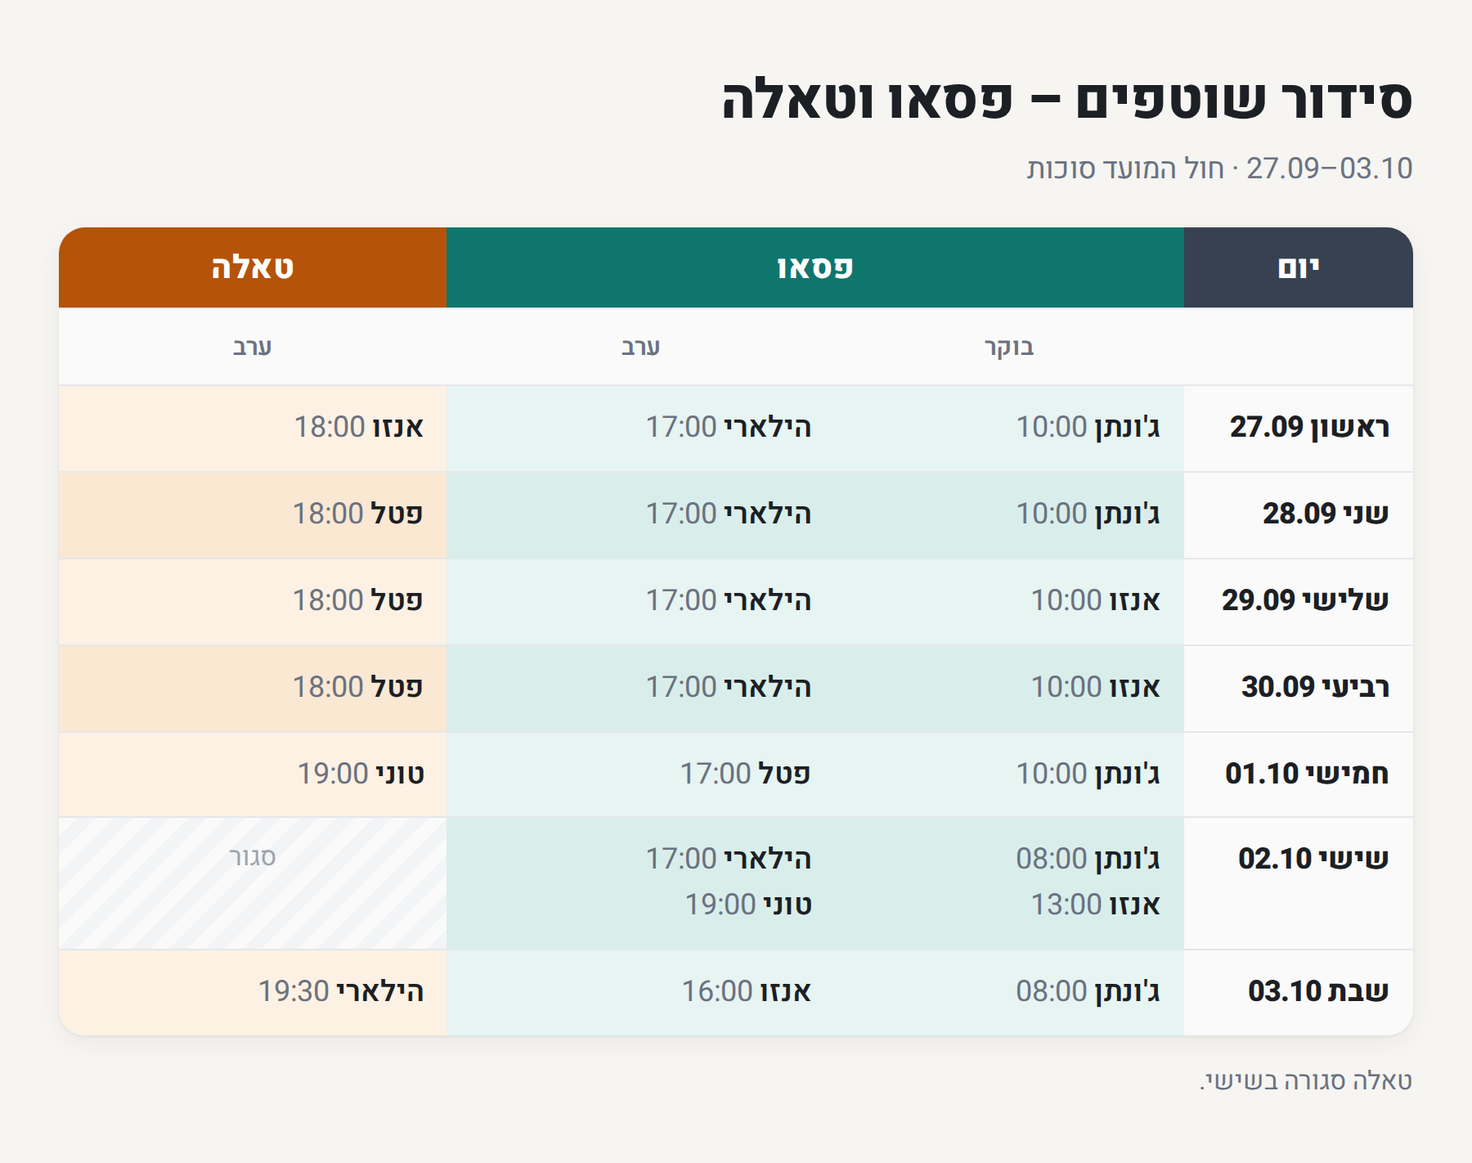
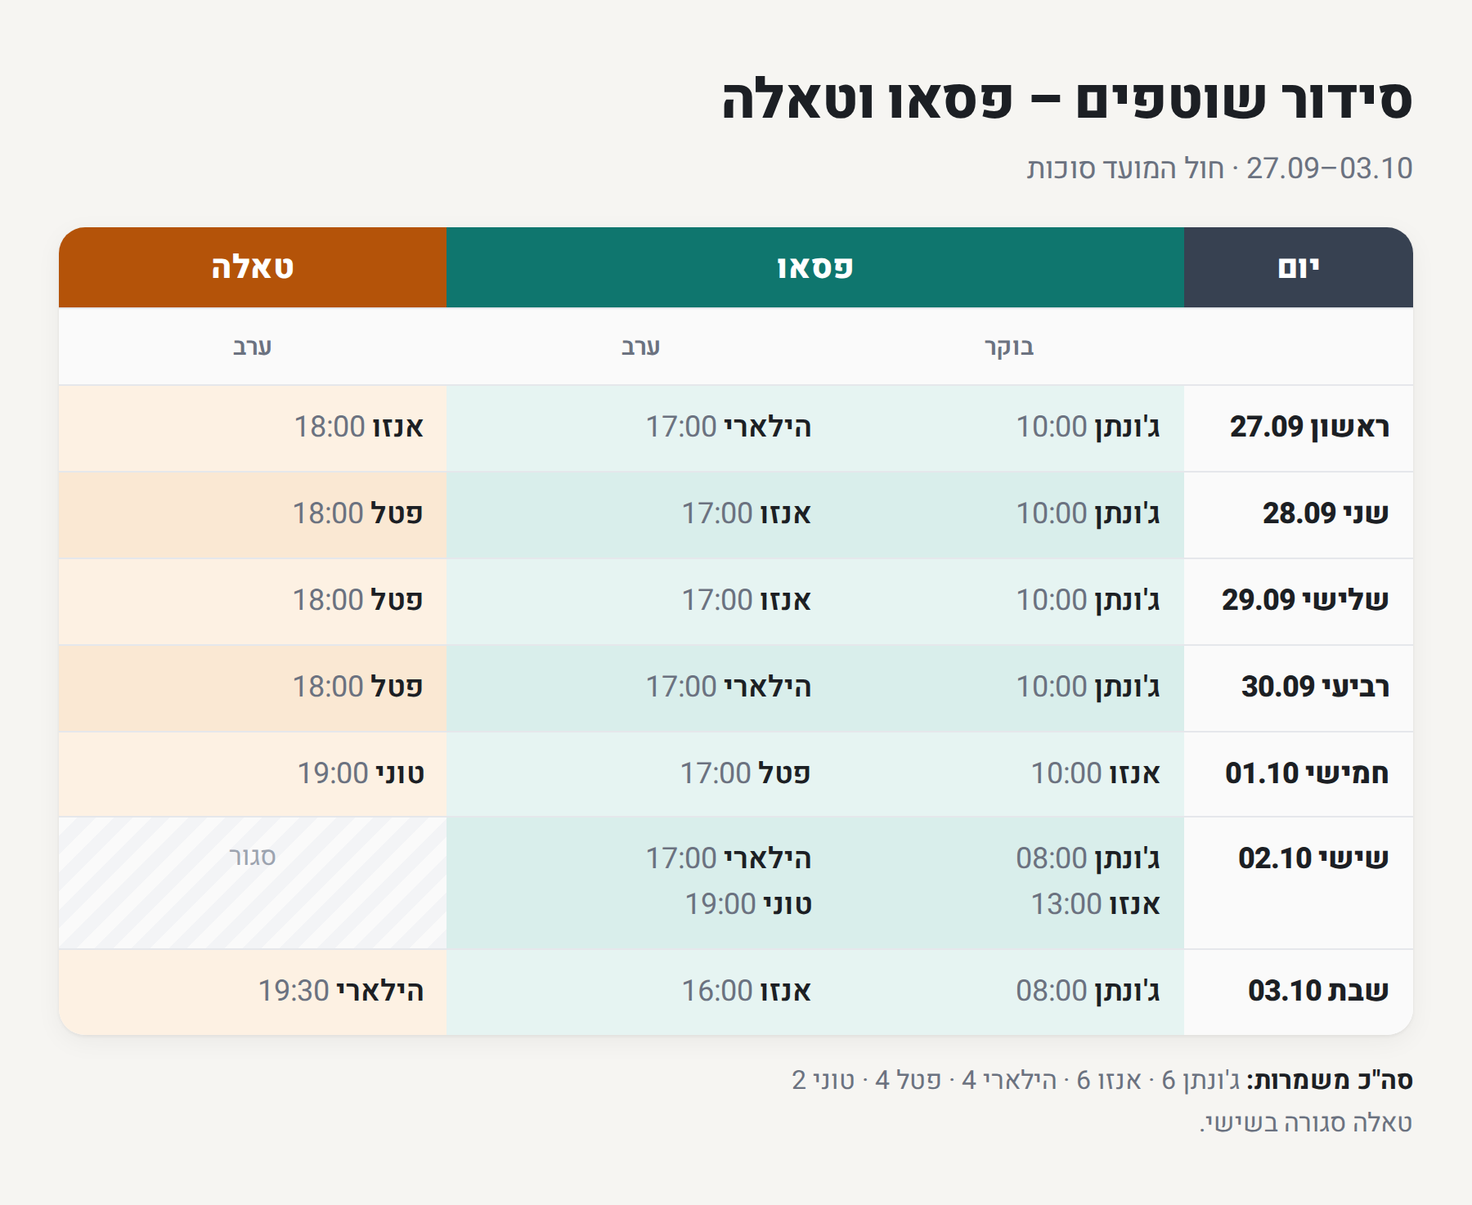
shift: חלוקה ג'ונתן 6 / אנזו 6 / הילארי 4 / פטל 4 + כלל חלוקה ב-skill
Claude-Session: https://claude.ai/code/session_01PaCDQzCdGZVMUVUojbSF3f

diff --git a/docs/shift/week-2026-09-27-dish-balance-6644.ts b/docs/shift/week-2026-09-27-dish-balance-6644.ts
@@ -1,0 +1,174 @@
+import "jsr:@supabase/functions-js/edge-runtime.d.ts";
+import { createClient } from "jsr:@supabase/supabase-js@2";
+
+// שוטפים 27/09–03/10 — חזרה לסידור שלפני התוכנית של גיל (ירין 26/09 בערב):
+//   ג'רמי לא מוכן לעבור לערבים (רוצה 11+ שעות ביום) → ג'רמי שוב בבקרי אומינו, הסרילנקי נדחה.
+//   פטל חוזר לערבי אומינו א'–ה'; טאלה א'–ד' כמו קודם (אנזו/ג'ונתן). פטל חופש ו'+ש' (ביקש) → במוצ"ש הילארי בטאלה.
+//   גיל 26/09 בלילה: מחר (א' 27/09) ג'רמי בערב באומינו, פטל מבוטל באותו יום. בוקר אומינו א' — הסרילנקי (ירין: "מחר הסרילנקי עובד"), עדיין בלי משתמש בשיפט.
+//   ירין: ג'ונתן עובד בה' — בוקר פסאו 10:00 במקום אנזו (אנזו נשאר ה' ערב 17:00, בלי כפולה).
+//   ירין: טאלה ב' 18:00 — אנזו במקום ג'ונתן (מבטל את הכפולה של ג'ונתן).
+//   ירין: פטל לא נדרש באומינו (לגיל יש ג'רמי + סרילנקי) → פטל טאלה ב'–ד' 18:00 + פסאו ה' 17:00.
+//   ערבי אומינו ב'–ה' → תא ריק "Umino – גיל משבץ". ג'ונתן חופש ג'+ד', אנזו חופש ב'+ה'.
+//   ירין: ג'ונתן+אנזו ≥6 משמרות, הילארי+פטל 2–4. חלוקה: ג'ונתן 6 (חופש ה'), אנזו 6 (חופש ד'), הילארי 4, פטל 4. בלי כפולות.
+// Reconcile מול ROWS. לא מפרסם.
+const sb = createClient(Deno.env.get("SUPABASE_URL")!, Deno.env.get("SUPABASE_SERVICE_ROLE_KEY")!);
+const BASE = "https://app.shiftorganizer.com";
+const UA = "Mozilla/5.0 (Macintosh; Intel Mac OS X 10_15_7) AppleWebKit/537.36 (KHTML, like Gecko) Chrome/126 Safari/537.36";
+
+const WEEK = "2026-09-27";
+const P_APP = 4283, P_ROTA = 884123, DISH = 34937, B = 16656, E = 21796;
+const W = { JONATHAN: 765292, ENZO: 765295, HILLARY: 732289, PATEL: 808241, TONY: 811255, JEREMY: 829782 };
+const P = "Paseo", U = "Umino", T = "Tala", SL = "Umino – סרילנקי", U_GIL = "Umino – גיל משבץ";
+
+type Row = [number, number, number | null, string, string];
+const ROWS: Row[] = [
+  [0, B, W.JONATHAN, "10:00", P], [0, B, null, "11:00", SL],
+  [0, E, W.HILLARY, "17:00", P], [0, E, W.ENZO, "18:00", T], [0, E, W.JEREMY, "18:00", U],
+
+  [1, B, W.JONATHAN, "10:00", P], [1, B, W.JEREMY, "10:00", U],
+  [1, E, W.ENZO, "17:00", P], [1, E, W.PATEL, "18:00", T], [1, E, null, "18:00", U_GIL],
+
+  [2, B, W.JONATHAN, "10:00", P], [2, B, W.JEREMY, "10:00", U],
+  [2, E, W.ENZO, "17:00", P], [2, E, W.PATEL, "18:00", T], [2, E, null, "18:00", U_GIL],
+
+  [3, B, W.JONATHAN, "10:00", P], [3, B, W.JEREMY, "10:00", U],
+  [3, E, W.HILLARY, "17:00", P], [3, E, W.PATEL, "18:00", T], [3, E, null, "18:00", U_GIL],
+
+  [4, B, W.ENZO, "10:00", P], [4, B, W.JEREMY, "10:00", U],
+  [4, E, W.PATEL, "17:00", P], [4, E, W.TONY, "19:00", T], [4, E, null, "18:00", U_GIL],
+
+  [5, B, W.JONATHAN, "08:00", P], [5, B, W.JEREMY, "10:00", U], [5, B, W.ENZO, "13:00", P],
+  [5, E, W.HILLARY, "17:00", P], [5, E, W.TONY, "19:00", P],
+
+  [6, B, W.JONATHAN, "08:00", P],
+  [6, E, W.ENZO, "16:00", P], [6, E, W.HILLARY, "19:30", T], [6, E, W.JEREMY, "19:30", U],
+];
+
+async function cfg(k: string): Promise<string> {
+  const { data } = await sb.from("app_config").select("value").eq("key", k).maybeSingle();
+  return data?.value ?? "";
+}
+function eat(res: Response, jar: Record<string, string>) {
+  const raw = (res.headers as any).getSetCookie?.() ?? [];
+  const list: string[] = raw.length ? raw : (res.headers.get("set-cookie") ? [res.headers.get("set-cookie")!] : []);
+  for (const c of list) { const [p] = c.split(";"); const i = p.indexOf("="); if (i > 0) jar[p.slice(0, i).trim()] = p.slice(i + 1).trim(); }
+}
+const jarStr = (j: Record<string, string>) => Object.entries(j).map(([k, v]) => `${k}=${v}`).join("; ");
+function hdrs(jar: Record<string, string>, post = false) {
+  const h: Record<string, string> = { "User-Agent": UA, "Accept": "application/json", "Cookie": jarStr(jar), "Referer": `${BASE}/app/home/` };
+  if (post) { h["Content-Type"] = "application/json"; h["Origin"] = BASE; }
+  if (jar["csrftoken"]) h["X-CSRFToken"] = jar["csrftoken"];
+  return h;
+}
+async function login(jar: Record<string, string>) {
+  const g = await fetch(`${BASE}/app/login/`, { headers: { "User-Agent": UA }, redirect: "manual" }); eat(g, jar);
+  const r = await fetch(`${BASE}/api/auth/login/`, { method: "POST", headers: { ...hdrs(jar, true), "Referer": `${BASE}/app/login/` },
+    body: JSON.stringify({ username: await cfg("SHIFT_USERNAME"), company: await cfg("SHIFT_COMPANY"), password: await cfg("SHIFT_PASSWORD") }), redirect: "manual" });
+  eat(r, jar); return r.ok;
+}
+async function switchApp(jar: Record<string, string>, app: number) {
+  const sw = await fetch(`${BASE}/api/auth/switch-application/`, { method: "POST", headers: hdrs(jar, true), body: JSON.stringify({ application: app }), redirect: "manual" });
+  eat(sw, jar); return sw.ok;
+}
+const rowsOf = (j: any) => Array.isArray(j) ? j : (Array.isArray(j?.results) ? j.results : []);
+function dateOf(day: number) {
+  const d = new Date(WEEK + "T00:00:00Z"); d.setUTCDate(d.getUTCDate() + day);
+  return d.toISOString().slice(0, 10);
+}
+// PATCH עם נעילה אופטימית — ה-API דורש version תואם, אחרת 409.
+async function patchCell(jar: Record<string, string>, app: number, cur: any, fields: Record<string, unknown>) {
+  let ver = Number(cur.version ?? 0), last = "";
+  for (let attempt = 0; attempt < 3; attempt++) {
+    const r = await fetch(`${BASE}/api/cells/${cur.id}/?application=${app}`, { method: "PATCH", headers: hdrs(jar, true),
+      body: JSON.stringify({ ...cur, version: ver, ...fields }) });
+    const t = await r.text();
+    if (r.ok) return { ok: true, how: `attempt${attempt}` };
+    last = `${r.status} ${t.replace(/<[^>]*>/g, " ").replace(/\s+/g, " ").slice(0, 120)}`;
+    if (r.status === 409) { try { const j = JSON.parse(t); if (typeof j?.version === "number") ver = j.version + 1; } catch { ver++; } }
+    else break;
+  }
+  return { ok: false, last };
+}
+
+const hhmm = (s: any) => String(s || "").slice(0, 5);
+const who = (c: any) => c.employee ? ((c.first_name || "") + (c.last_name ? " " + c.last_name : "")).trim() || String(c.employee) : (c.notes || "ריק");
+const same = (c: any, r: Row) => c.day === r[0] && c.shift === r[1] && Number(c.employee ?? 0) === Number(r[2] ?? 0) && hhmm(c.planned_start) === r[3] && String(c.notes || "") === r[4];
+
+Deno.serve(async (req) => {
+  try {
+    const u = new URL(req.url);
+    const secret = await cfg("ALFRED_SYNC_SECRET");
+    if (!secret || (req.headers.get("x-sync-secret") ?? u.searchParams.get("secret")) !== secret) return new Response("unauthorized", { status: 401 });
+    const go = u.searchParams.get("confirm") === "1";
+
+    const jar: Record<string, string> = {};
+    if (!(await login(jar))) return new Response(JSON.stringify({ error: "login failed" }), { status: 502 });
+    if (!(await switchApp(jar, P_APP))) return new Response(JSON.stringify({ error: "switch 4283 failed" }), { status: 502 });
+    const pRota = rowsOf(await (await fetch(`${BASE}/api/rotas/`, { headers: hdrs(jar) })).json()).find((r: any) => r.id === P_ROTA);
+    if (!pRota || pRota.is_deleted) return new Response(JSON.stringify({ error: "rota 884123 not found" }), { status: 404 });
+    const live = rowsOf(await (await fetch(`${BASE}/api/cells/`, { headers: hdrs(jar) })).json())
+      .filter((c: any) => c.rota === P_ROTA && !c.is_deleted);
+    const dish = live.filter((c: any) => c.role === DISH);
+
+    // 1. התאמות מדויקות
+    const freeLive = new Set(dish.map((c: any) => c.id));
+    const todo: Row[] = [];
+    for (const r of ROWS) {
+      const hit = dish.find((c: any) => freeLive.has(c.id) && same(c, r));
+      if (hit) freeLive.delete(hit.id); else todo.push(r);
+    }
+    // 2. PATCH לתא פנוי באותו יום+משמרת, אחרת יצירה; תאים שנשארו — מחיקה
+    const byStart = (a: any, b: any) => String(a.planned_start).localeCompare(String(b.planned_start));
+    const plan: any[] = [];
+    for (const r of todo) {
+      const cand = dish.filter((c: any) => freeLive.has(c.id) && c.day === r[0] && c.shift === r[1]).sort(byStart)[0];
+      if (cand) { freeLive.delete(cand.id); plan.push({ op: "patch", cell: cand, row: r }); }
+      else plan.push({ op: "create", row: r });
+    }
+    for (const id of freeLive) plan.push({ op: "delete", cell: dish.find((c: any) => c.id === id) });
+
+    const desc = (p: any) => p.op === "delete" ? `מחיקה ${String(p.cell.date).slice(0, 10)} ${hhmm(p.cell.planned_start)} ${who(p.cell)}`
+      : p.op === "patch" ? `${String(p.cell.date).slice(0, 10)} ${hhmm(p.cell.planned_start)} ${who(p.cell)}${p.cell.notes ? " (" + p.cell.notes + ")" : ""} → ${p.row[3]} ${p.row[2]}${p.row[4] ? " (" + p.row[4] + ")" : ""}`
+      : `חדש d${p.row[0]} ${p.row[3]} ${p.row[2]}`;
+    if (!go) return new Response(JSON.stringify({ dry: true, is_published: pRota.is_published, existing_dish: dish.length, target: ROWS.length, changes: plan.map(desc) }, null, 2),
+      { headers: { "Content-Type": "application/json" } });
+
+    const used = new Map<number, Set<number>>();
+    for (const c of live) { if (!used.has(c.day)) used.set(c.day, new Set()); used.get(c.day)!.add(Number(c.order || 0)); }
+    const nextOrder = (day: number) => { if (!used.has(day)) used.set(day, new Set()); const s = used.get(day)!; let o = 1; while (s.has(o)) o++; s.add(o); return o; };
+    const done: string[] = [], failed: any[] = [];
+    for (const p of plan) {
+      if (p.op === "patch") {
+        const [day, , emp, start, notes] = p.row; const date = String(p.cell.date).slice(0, 10);
+        const res = await patchCell(jar, P_APP, p.cell, { employee: emp, notes, planned_start: `${start}:00`, planned_start_full: `${date}T${start}:00` });
+        res.ok ? done.push(desc(p)) : failed.push({ c: desc(p), last: res.last });
+      } else if (p.op === "create") {
+        const [day, shift, emp, start, notes] = p.row; const date = dateOf(day);
+        const payload = { rota: P_ROTA, sub_rota: null, shift, day, date, role: DISH, employee: emp, order: nextOrder(day),
+          planned_start: `${start}:00`, planned_end: null, planned_start_full: `${date}T${start}:00`, planned_end_full: null,
+          manual_start: null, manual_end: null, work_code: 0, break_duration: 0, waiting: 0, absence: "", notes, highlight: "" };
+        const r = await fetch(`${BASE}/api/cells/?application=${P_APP}`, { method: "POST", headers: hdrs(jar, true), body: JSON.stringify(payload) });
+        const t = await r.text(); r.ok ? done.push(desc(p)) : failed.push({ c: desc(p), status: r.status, body: t.slice(0, 140) });
+      } else {
+        const r = await fetch(`${BASE}/api/cells/${p.cell.id}/?application=${P_APP}`, { method: "DELETE", headers: hdrs(jar, true) });
+        await r.text();
+        if (r.ok) done.push(desc(p));
+        else { const res = await patchCell(jar, P_APP, p.cell, { is_deleted: true }); res.ok ? done.push(desc(p) + " (is_deleted)") : failed.push({ c: desc(p), last: res.last }); }
+      }
+    }
+
+    const after = rowsOf(await (await fetch(`${BASE}/api/cells/`, { headers: hdrs(jar) })).json())
+      .filter((c: any) => c.rota === P_ROTA && !c.is_deleted && c.role === DISH);
+    const missing = ROWS.filter((r) => !after.some((c: any) => same(c, r))).length;
+    const by: Record<string, string[]> = {}, per: Record<string, number> = {};
+    for (const c of after.sort((a: any, b: any) => (a.day - b.day) || byStart(a, b))) {
+      (by[String(c.date).slice(0, 10)] ||= []).push(`${hhmm(c.planned_start)} ${who(c)}${c.notes ? " · " + c.notes : ""}`);
+      per[who(c)] = (per[who(c)] || 0) + 1;
+    }
+    const rotaAfter = rowsOf(await (await fetch(`${BASE}/api/rotas/`, { headers: hdrs(jar) })).json()).find((r: any) => r.id === P_ROTA);
+    return new Response(JSON.stringify({ is_published: rotaAfter?.is_published ?? null, done: done.length, failed, dish_cells: after.length,
+      target: ROWS.length, missing, per_person: per, by_day: by }, null, 2), { headers: { "Content-Type": "application/json" } });
+  } catch (e) {
+    return new Response(JSON.stringify({ error: String(e) }), { status: 500 });
+  }
+});

diff --git a/docs/shift/img/gen-2026-09-27.py b/docs/shift/img/gen-2026-09-27.py
@@ -8,10 +8,10 @@ CLOSED="__closed__"
 # dishwashers: per day: paseo_m, paseo_e, tala, umino_m, umino_e
 DISH=[
  [["ג'ונתן 10:00"],["הילארי 17:00"],["אנזו 18:00"],["סרילנקי* 11:00"],["ג'רמי 18:00"]],
+ [["ג'ונתן 10:00"],["אנזו 17:00"],["פטל 18:00"],["ג'רמי 10:00"],["גיל משבץ"]],
+ [["ג'ונתן 10:00"],["אנזו 17:00"],["פטל 18:00"],["ג'רמי 10:00"],["גיל משבץ"]],
  [["ג'ונתן 10:00"],["הילארי 17:00"],["פטל 18:00"],["ג'רמי 10:00"],["גיל משבץ"]],
- [["אנזו 10:00"],["הילארי 17:00"],["פטל 18:00"],["ג'רמי 10:00"],["גיל משבץ"]],
- [["אנזו 10:00"],["הילארי 17:00"],["פטל 18:00"],["ג'רמי 10:00"],["גיל משבץ"]],
- [["ג'ונתן 10:00"],["פטל 17:00"],["טוני 19:00"],["ג'רמי 10:00"],["גיל משבץ"]],
+ [["אנזו 10:00"],["פטל 17:00"],["טוני 19:00"],["ג'רמי 10:00"],["גיל משבץ"]],
  [["ג'ונתן 08:00","אנזו 13:00"],["הילארי 17:00","טוני 19:00"],[CLOSED],["ג'רמי 10:00"],[CLOSED]],
  [["ג'ונתן 08:00"],["אנזו 16:00"],["הילארי 19:30"],[CLOSED],["ג'רמי 19:30"]],
 ]
@@ -62,7 +62,7 @@ def page(title,sub,head,rows,foot,width):
 head='''<thead><tr class="grp"><th style="background:#374151">יום</th><th class="paseo" colspan="2">פסאו</th><th class="tala">טאלה</th><th class="umino" colspan="2">אומינו</th></tr>
 <tr class="sh"><th></th><th>בוקר</th><th>ערב</th><th>ערב</th><th>בוקר</th><th>ערב</th></tr></thead>'''
 rows=''.join(f'<tr><td class="day">{d}</td>'+cell(r[0],'cp')+cell(r[1],'cp')+cell(r[2],'ct')+cell(r[3],'cu')+cell(r[4],'cu')+'</tr>' for d,r in zip(DAYS,DISH))
-foot='<b>סה"כ משמרות:</b> ג\'רמי 7 · הילארי 6 · ג\'ונתן 5 · אנזו 5 · פטל 4 · טוני 2 · סרילנקי 1<br>ערבי אומינו שני–חמישי: גיל משבץ (ג\'רמי / סרילנקי). &nbsp;·&nbsp; * סרילנקי – עובד חדש, המשתמש בשיפט עוד לא נפתח.'
+foot='<b>סה"כ משמרות:</b> ג\'רמי 7 · ג\'ונתן 6 · אנזו 6 · הילארי 4 · פטל 4 · טוני 2 · סרילנקי 1<br>ערבי אומינו שני–חמישי: גיל משבץ (ג\'רמי / סרילנקי). &nbsp;·&nbsp; * סרילנקי – עובד חדש, המשתמש בשיפט עוד לא נפתח.'
 open('dish.html','w').write(page('סידור שוטפים','<bdi dir="ltr">27.09–03.10</bdi> · חול המועד סוכות',head,rows,foot,1240))
 
 head2='''<thead><tr class="grp"><th style="background:#374151">יום</th><th class="cook">בוקר</th><th class="cook">ערב</th></tr></thead>'''

diff --git a/docs/shift/img/gen-paseo-tala-2026-09-27.py b/docs/shift/img/gen-paseo-tala-2026-09-27.py
@@ -8,10 +8,10 @@ CLOSED="__closed__"
 # dishwashers: per day: paseo_m, paseo_e, tala, umino_m, umino_e
 DISH=[
  [["ג'ונתן 10:00"],["הילארי 17:00"],["אנזו 18:00"],["סרילנקי* 11:00"],["ג'רמי 18:00"]],
+ [["ג'ונתן 10:00"],["אנזו 17:00"],["פטל 18:00"],["ג'רמי 10:00"],["גיל משבץ"]],
+ [["ג'ונתן 10:00"],["אנזו 17:00"],["פטל 18:00"],["ג'רמי 10:00"],["גיל משבץ"]],
  [["ג'ונתן 10:00"],["הילארי 17:00"],["פטל 18:00"],["ג'רמי 10:00"],["גיל משבץ"]],
- [["אנזו 10:00"],["הילארי 17:00"],["פטל 18:00"],["ג'רמי 10:00"],["גיל משבץ"]],
- [["אנזו 10:00"],["הילארי 17:00"],["פטל 18:00"],["ג'רמי 10:00"],["גיל משבץ"]],
- [["ג'ונתן 10:00"],["פטל 17:00"],["טוני 19:00"],["ג'רמי 10:00"],["גיל משבץ"]],
+ [["אנזו 10:00"],["פטל 17:00"],["טוני 19:00"],["ג'רמי 10:00"],["גיל משבץ"]],
  [["ג'ונתן 08:00","אנזו 13:00"],["הילארי 17:00","טוני 19:00"],[CLOSED],["ג'רמי 10:00"],[CLOSED]],
  [["ג'ונתן 08:00"],["אנזו 16:00"],["הילארי 19:30"],[CLOSED],["ג'רמי 19:30"]],
 ]
@@ -63,5 +63,5 @@ def page(title,sub,head,rows,foot,width):
 PT=[(r[0],r[1],r[2]) for r in DISH]
 head='<thead><tr class="grp"><th style="background:#374151">יום</th><th class="paseo" colspan="2">פסאו</th><th class="tala">טאלה</th></tr><tr class="sh"><th></th><th>בוקר</th><th>ערב</th><th>ערב</th></tr></thead>'
 rows=''.join(f'<tr><td class="day">{d}</td>'+cell(a,'cp')+cell(b,'cp')+cell(c,'ct')+'</tr>' for d,(a,b,c) in zip(DAYS,PT))
-foot='טאלה סגורה בשישי.'
+foot='<b>סה"כ משמרות:</b> ג\'ונתן 6 · אנזו 6 · הילארי 4 · פטל 4 · טוני 2<br>טאלה סגורה בשישי.'
 open('pt.html','w').write(page('סידור שוטפים – פסאו וטאלה','<bdi dir="ltr">27.09–03.10</bdi> · חול המועד סוכות',head,rows,foot,900))

diff --git a/docs/shift/README.md b/docs/shift/README.md
@@ -44,6 +44,7 @@
 | `week-2026-09-27-dish-revert-jeremy.ts` | 27/09–03/10 | **ביטול התוכנית של גיל:** ג'רמי לא מוכן לעבור לערבים. ג'רמי חוזר לבקרי אומינו (7 ימים), פטל לערבי אומינו א'–ה', והסרילנקי נדחה. טאלה חוזרת להיות כמו קודם: אנזו בא', ג'ונתן בב'–ד'. המחסנים והערבים של אנזו בג'+ה' בוטלו גם הם. במוצ"ש הילארי בטאלה, כי פטל ביקש חופש בו'+ש'. 34 תאים, טיוטה. |
 | `week-2026-09-27-dish-sun-jeremy-eve.ts` | 27/09 | גיל: בא' 27/09 ג'רמי בערב באומינו (18:00), ופטל מבוטל באותו יום. בוקר אומינו בא' נשאר תא ריק `Umino – חסר שוטף בוקר`. ⚠ בב' ג'רמי פותח 10:00 אחרי שסגר בא'. |
 | `week-2026-09-27-dish-patel-paseo-tala.ts` | 27/09–03/10 | ירין: באומינו לא צריך את פטל, יש ג'רמי והסרילנקי. פטל עובר לטאלה בב'–ד' 18:00 ולפסאו בה' 17:00. ערבי אומינו בב'–ה' נשארים תא ריק `Umino – גיל משבץ`. ג'ונתן בחופש בג'+ד', אנזו בחופש בב'+ה'. (לפני כן: הסרילנקי בא' בבוקר, ג'ונתן בה' בבוקר, אנזו בטאלה בב'.) 34 תאים, טיוטה. |
+| `week-2026-09-27-dish-balance-6644.ts` | 27/09–03/10 | ירין: לג'ונתן ולאנזו לפחות 6 משמרות, להילארי ולפטל 2–4. יצא ג'ונתן 6 (חופש ה'), אנזו 6 (חופש ד'), הילארי 4, פטל 4. בלי כפולות ובלי סגירה→פתיחה. 5 PATCH, טיוטה. |
 
 ## עריכות ידניות של ירין בגריד
 

diff --git a/.claude/skills/weekly-rota/SKILL.md b/.claude/skills/weekly-rota/SKILL.md
@@ -21,6 +21,11 @@ description: >-
 - **תיאום:** עובדים שעוברים בין המסעדות, כמו פטל, הילארי וג׳ונתן, צריך לתאם מול גיל לפני
   שמשבצים אותם. אסור שעובד ישובץ פעמיים באותן שעות.
 
+## חלוקת משמרות — ירין 26/09/2026
+- **ג׳ונתן ואנזו מקבלים את רוב המשמרות, לפחות 6 בשבוע כל אחד.**
+- **הילארי ופטל בין 2 ל-4 משמרות כל אחד**, לפי מה שצריך.
+- ג׳רמי שייך לאומינו (גיל).
+
 ## עקרונות מחייבים
 
 1. **בוקר וערב, לא משמרת אחת ארוכה.** בכל מסעדה כל יום מתחלק למשמרת בוקר
